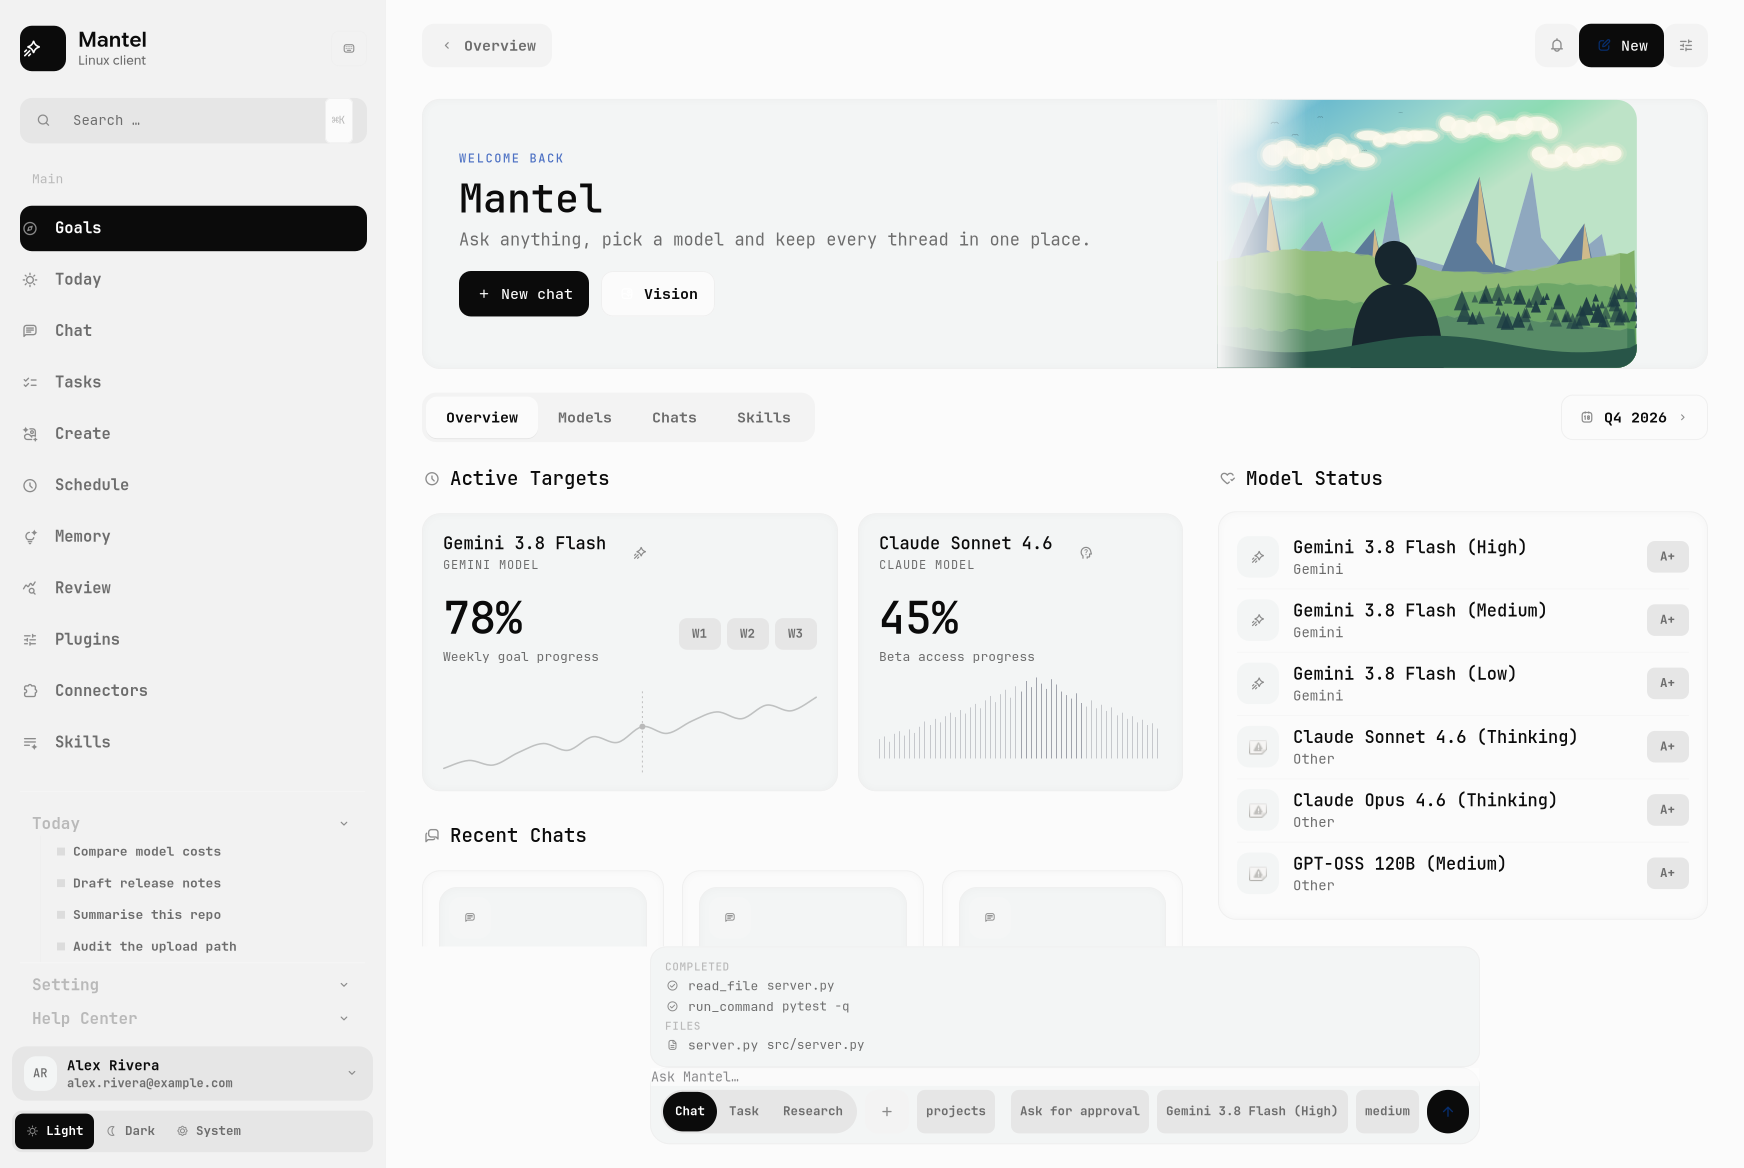
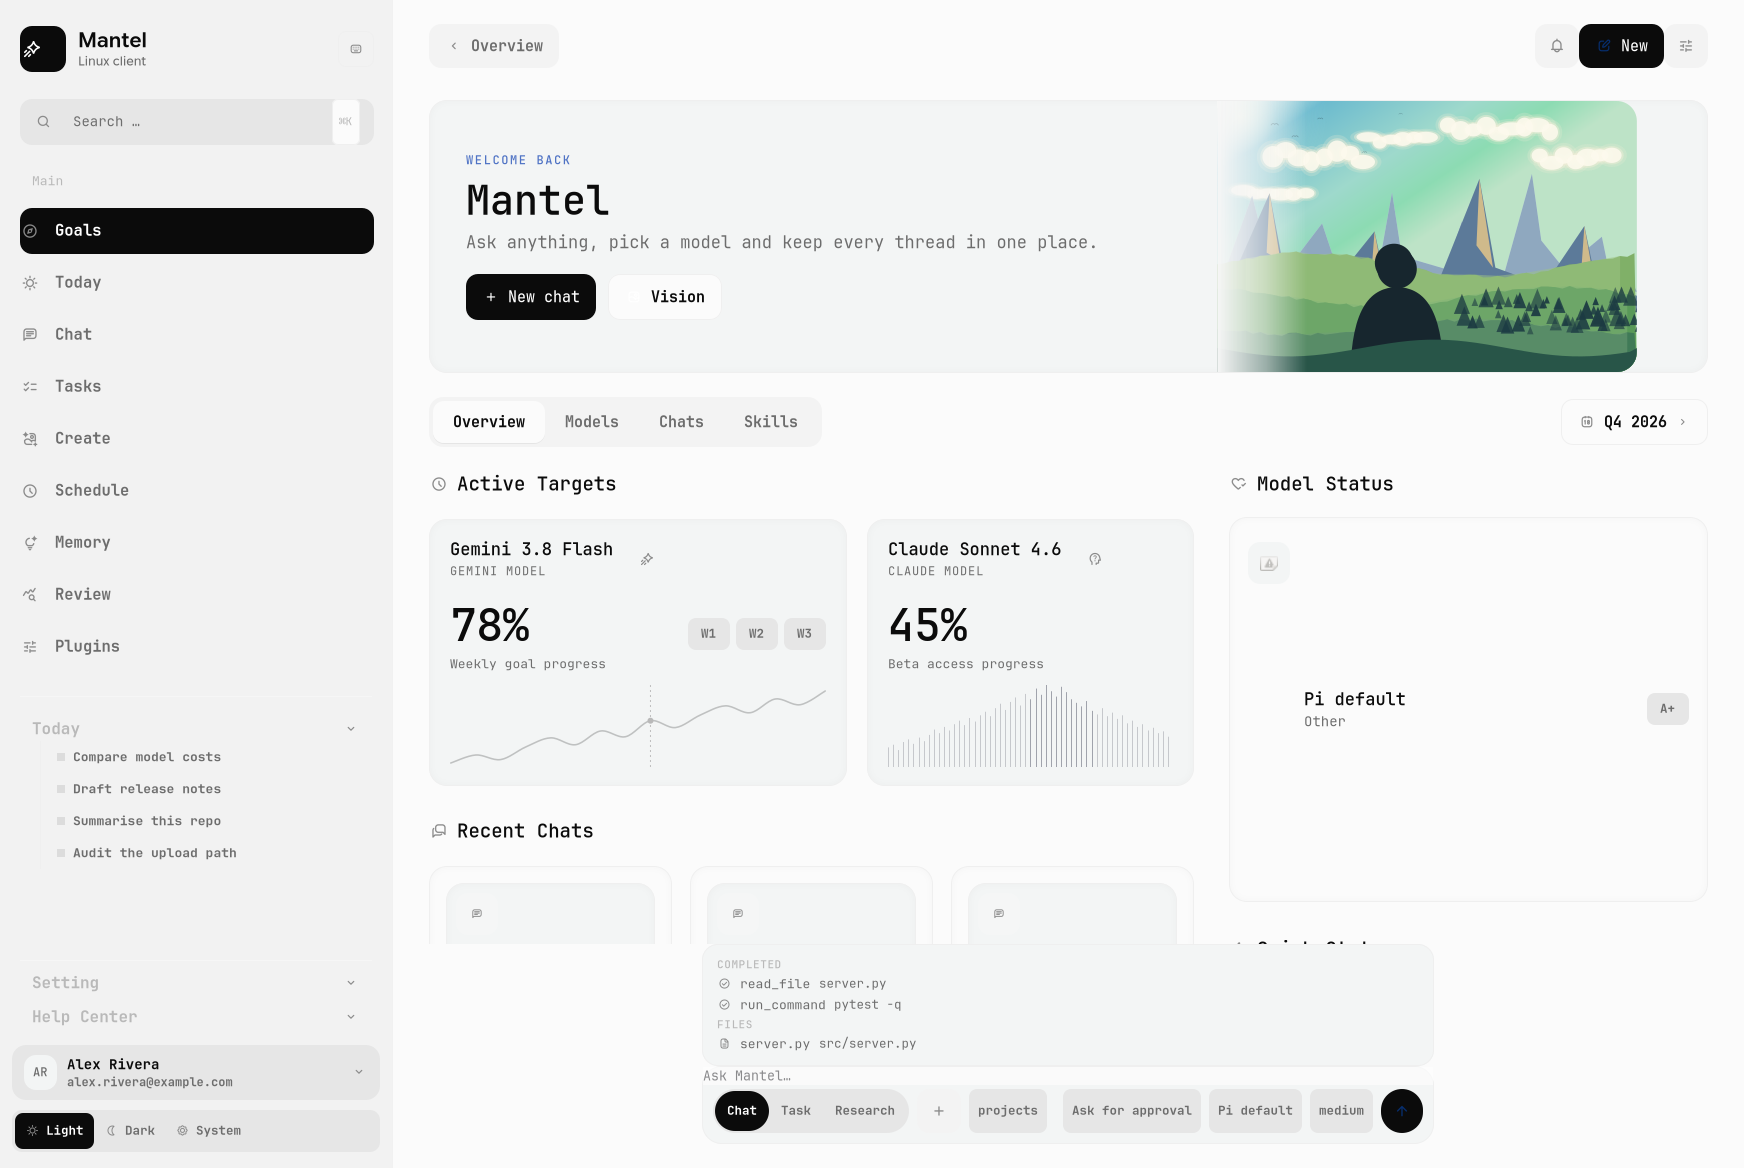
docs: M6 complete — the repo has no vendor credential path
- README: engine table is down to Pi (default) and the Gemini API; requirements
  no longer mention a bundled CLI; the "migration in progress" and vendor
  approval caveats are removed; test list follows the deleted suites.
- ARCHITECTURE: the module map and engine list reflect the two real adapters,
  and the approval note no longer describes a vendor refusal path.
- Plan: M6 marked done with the acceptance bar quoted — no vendor credential
  path remains in the repo.
- Screenshots regenerated: Connectors and the vendor account page are gone from
  the app and from the docs.

diff --git a/README.md b/README.md
@@ -134,11 +134,10 @@ stores are engine-independent.
 |---|---|---|
 | **Pi** ([pi.dev](https://pi.dev)) | **M3 complete — default target** | `pi --mode rpc`: streaming, tool events, models, effort, abort, sessions, and **pre-execution approvals** through the shipped gate extension (`pi-extensions/approvals.ts`). Verified against `pi` 1.4.0 and a protocol fake. Durability lands in M4. |
 | **Gemini API** | **implemented (chat, streaming, tools, approvals)** — set `GEMINI_API_KEY` | Speaks the public REST streaming API directly, with no third-party Python dependency. A real tool loop: `read_file` runs freely; `write_file` and `run_command` ask through the same approval cards every other engine uses, and a deny means the tool never runs. Verified against a local fake API — no key needed in CI. |
-| **Legacy vendor engine** | v0.1 only, being removed | The current working bridge drives a bundled CLI engine. It is why this repo exists and is documented in [docs/reverse-engineering/](docs/reverse-engineering/), but it depends on vendor-issued credentials and is not the future. |
 
 Swapping engines changes what the app *offers*, not how it feels: the same
 approval cards, work panel and transcript, and only the surfaces the engine can
-back. Run with `MANTEL_ENGINE=pi` and Connectors, Skills and the vendor account
+back. Run with `MANTEL_ENGINE=pi` and Skills, the account page and remote
 page are simply not there — no dead links, no fake settings. The adapter tests
 assert both halves of that.
 
@@ -158,8 +157,9 @@ python3 -m app.main --demo
 ```
 
 Requirements: Linux with GTK4 and libadwaita, Python 3.10+ (developed and
-tested on 3.14), PyGObject, Pycairo, and an engine — either the vendor CLI on
-`PATH`, `pi`, or a Gemini API key in `GEMINI_API_KEY`.
+tested on 3.14), PyGObject, Pycairo, and an engine — either `pi` on `PATH`
+(the default) or a Gemini API key in `GEMINI_API_KEY`. There is no vendor
+account, no OAuth and no bundled CLI.
 
 ```bash
 # Debian/Ubuntu
@@ -230,8 +230,6 @@ See [docs/reverse-engineering/](docs/reverse-engineering/).
 python3 tests/test_schedules.py          # cron maths, store, pause/resume
 python3 tests/test_changes.py            # the git reader, on a real repo
 python3 tests/test_context_fallback.py   # replayed history when resume fails
-python3 tests/test_extras.py             # parsers for remote/screenshot/create
-python3 tests/test_signin.py             # OAuth against a mock, incl. bad CSRF
 python3 tests/test_engine.py "Say OK"    # the live engine bridge
 python3 tests/test_agent_flow.py         # refuse -> approve -> the file appears
 python3 tests/test_scheduler_run.py      # a schedule fires a real agent turn
@@ -243,12 +241,6 @@ engine, not a mock.
 
 ## Limitations, honestly
 
-- **Engine migration is in progress.** The working bridge today is the legacy
-  vendor engine; Pi is the target and the reason for this rewrite. Until it
-  lands, the app is not quite the thing this README describes.
-- **Approvals cannot pause a vendor turn.** The legacy stream accepts one input
-  event, so a granted action costs a retry. The Pi path resolves approvals
-  before the tool runs.
 - **Durability is not wired yet.** Conversations survive restarts through a
   local store, but not the way Pi Durable commits state; scheduled prompts only
   run while the app is open.

diff --git a/docs/ARCHITECTURE.md b/docs/ARCHITECTURE.md
@@ -15,7 +15,7 @@ history, tools, schedules — is engine-independent by design.
                         ├── spawn         pi --mode rpc   JSONL in / events out
                         │                 extension_ui_request / response
                         └── events   ─── engines/gemini_api.py   (REST, chat-only)
-                                      engines/legacy_agy.py     (v0.1 only)
+                                      engines/gemini_api.py     (public API)
  app/session.py    modes, approval state, tool records, work items
 ```
 
@@ -45,7 +45,7 @@ engine, credentials or network. See [plan/pi-engine.md](plan/pi-engine.md).
 4. **Settle** closes the bubble with duration and token usage.
 5. **Approvals**: with the Pi adapter the engine asks *before* running a tool
    (`extension_ui_request`), the card answers it (`extension_ui_response`), and
-   a deny means the tool never executes. With the legacy adapter, refusals are
+   a deny means the tool never executes. When an engine can only report a
    reported afterwards, so granting calls
    `permissions.allow(...)`, which writes a real rule into the engine's
    `config.json`, then the request is replayed.
@@ -62,15 +62,13 @@ engine, credentials or network. See [plan/pi-engine.md](plan/pi-engine.md).
 | `composer.py` | Prompt entry and the mode/model/effort/approval controls |
 | `chat_view.py` | Transcript, assistant bubbles, `WorkPanel`, `ChangesPanel` |
 | `engine.py` | Facade: selects an adapter, re-exports turn signals |
-| `engines/` | One adapter per engine (Pi RPC, Gemini SDK, legacy); the only code that spawns processes |
+| `engines/` | One adapter per engine (Pi RPC, Gemini API); the only code that spawns processes |
 | `session.py` | Modes, approval ladder state, tool records, work items |
 | `permissions.py` | Reads/writes the engine's permission config and trusted folders |
 | `approval.py` | Approval cards and the anchored stack |
 | `changes.py` | `git status` / `git diff` reader |
 | `schedules.py`, `scheduler.py` | Cron parser + store, and the in-app runner |
-| `account.py` | OAuth sign-in, credential file, identity |
-| `mcp.py`, `skills.py` | Connectors and skills, via the engine's stores |
-| `remote.py` | The engine's remote-control daemon |
+| `skills.py` | Skills the engine makes available |
 | `screenshot.py` | XDG portal capture with fallbacks |
 | `store.py` | Conversations on disk |
 | `theme.py` | Palette, generated stylesheet, icon loading |

diff --git a/docs/plan/pi-engine.md b/docs/plan/pi-engine.md
@@ -1,6 +1,6 @@
 # Plan: Pi as the first engine
 
-**Status:** M0–M5 complete; M6 (Gemini parity, legacy deletion) in progress
+**Status:** M0–M6 complete. Pi is the default engine; the vendor path is gone.
 **Goal:** replace the legacy vendor engine with **Pi** (`pi --mode rpc`) as the
 default engine, without changing the shell, and then adopt **Pi Durable** for
 conversations and tasks.
@@ -230,9 +230,13 @@ reopening — for both a successful and a failing run.
   deny means the tool never executes (asserted on the filesystem, not the
   transcript). Paths outside the workspace are refused; command output and
   file reads are capped.
-- *Remaining:* the contract suite (`tests/test_engine_adapter.py`) does not yet
-  run against Gemini, and the legacy adapter plus its OAuth module are still
-  in the tree. Those two are the milestone's acceptance bar.
+- *Done since:* the contract suite runs against **Pi and Gemini**, and the
+  vendor path is deleted — `engines/legacy_agy.py`, `account.py` (OAuth),
+  `remote.py`, `mcp.py`, the account and connectors pages, the vendor
+  permission file, and their tests. The identity card is now local
+  (`LocalIdentity`), workspace trust is per session, and `Engine()` defaults to
+  Pi.
+- *Milestone bar met:* no vendor credential path remains in the repo.
 
 Total: roughly 3–4 focused weeks to M6, with a publishable v0.2 at M2.
 
